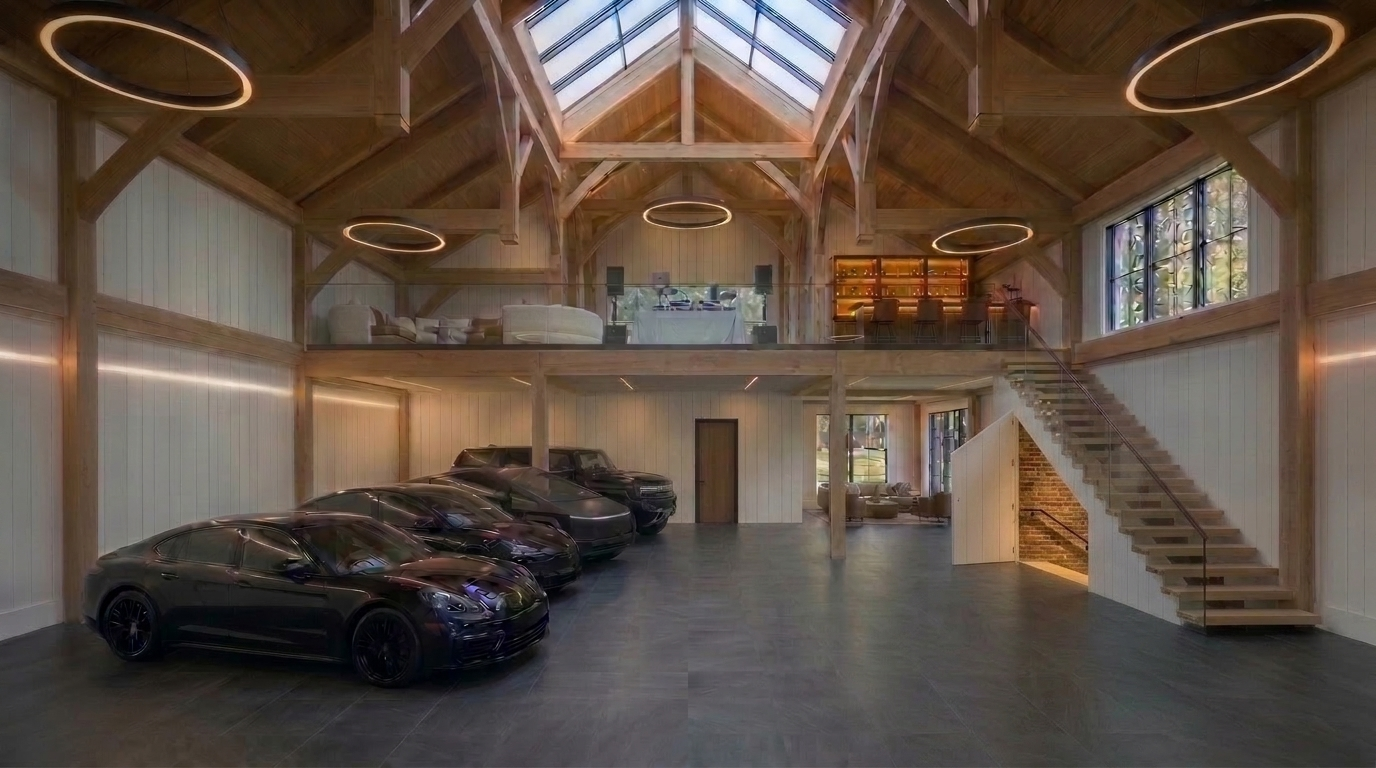
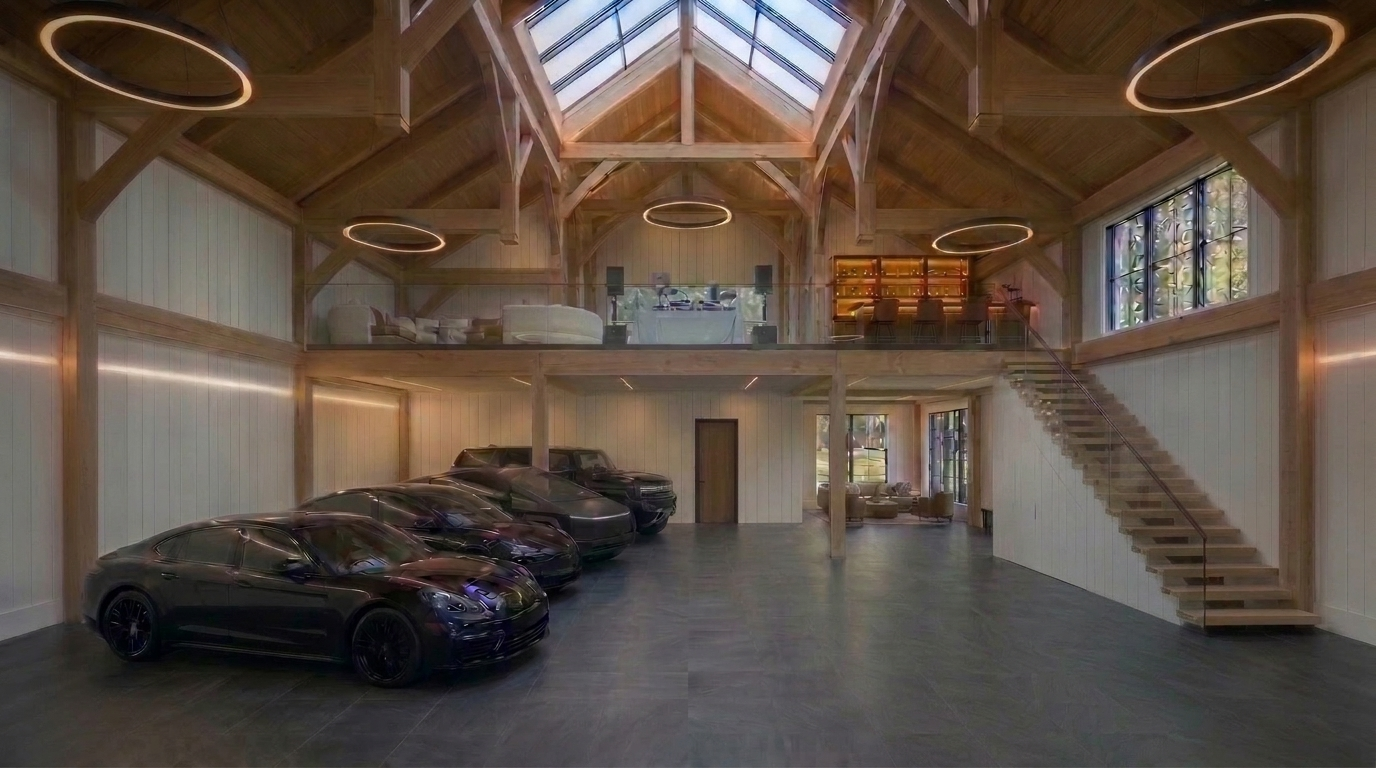
Show the flush vertical white shiplap hidden under-stair door CLOSED in the first Collector's Barn picture with the 4 parked black cars

Changed region(s): [[0.6875, 0.5312, 0.8125, 0.9375]]

diff --git a/estate_interactive_lookbook_standalone.html b/estate_interactive_lookbook_standalone.html
@@ -1316,16 +1316,16 @@
         ]
       },
       {
-        src: "static/images/12_collectors_barn.jpg?v=v9stairs01",
+        src: "static/images/12_collectors_barn.jpg?v=v9closed01",
         category: "outbuildings",
-        zone: "Detached Barn (1. 4-Car Fleet, Standard Stairs & Hidden Cellar Door)",
-        badge: "Outbuilding 3 (Mode A) • All 4 Black Cars Angled in a Row + Standard Solid-Riser Stairs + Flush Vertical White Shiplap Hidden Wine Cellar Door",
-        title: "Detached Collector's Barn (Daily Collector Mode v9) — All 4 All-Black Cars Backed In & Angled in a Single Row (No Lift), 5 Circular Ring Lights, Single Rear Bathroom Door, Standard Solid-Riser Staircase & Flush Vertical White Shiplap Hidden Door Covering the Stairs Down to the Wine Cellar",
-        dims: "~3,250 Sq Ft Total • Standard Closed-Riser White-Oak Stairs + Seamless Flush Shiplap Hidden Under-Stair Wine Cellar Door",
-        desc: "Showcasing all 4 vehicles in your all-black fleet (Jet-Black Porsche Panamera, Black Tesla Model Y, Matte-Black Tesla Cybertruck, and Matte-Black GMC Hummer EV) backed in against the left wall and angled at 45 degrees in a single continuous row on the 100% flat unbroken stone floor (zero lift/platform, zero floor cutout). On the right wall, the staircase ascending to the Level 2 Event Mezzanine is now a standard solid-riser natural white-oak staircase over a solid enclosed vertical white shiplap wall—with a seamless flush-inlaid vertical white shiplap secret pivot door swung partially open (~45°) to reveal the standard stairs descending straight DOWN (-12') into the subterranean wine cellar.",
+        zone: "Detached Barn (1. 4-Car Fleet, Standard Stairs & Hidden Door CLOSED)",
+        badge: "Outbuilding 3 (Mode A — Hidden Door CLOSED) • All 4 Black Cars Angled in a Row + Standard Solid-Riser Stairs + Flush Vertical White Shiplap Hidden Door Closed",
+        title: "Detached Collector's Barn (Daily Collector Mode v9 — Hidden Door CLOSED) — All 4 All-Black Cars Backed In & Angled in a Single Row (No Lift), 5 Circular Ring Lights, Single Rear Bathroom Door, Standard Solid-Riser Staircase & Flush Vertical White Shiplap Hidden Under-Stair Door Shown Completely Closed",
+        dims: "~3,250 Sq Ft Total • Standard Closed-Riser White-Oak Stairs + Seamless Flush Shiplap Hidden Under-Stair Door (Shown CLOSED)",
+        desc: "Showcasing all 4 vehicles in your all-black fleet (Jet-Black Porsche Panamera, Black Tesla Model Y, Matte-Black Tesla Cybertruck, and Matte-Black GMC Hummer EV) backed in against the left wall and angled at 45 degrees in a single continuous row on the 100% flat unbroken stone floor (zero lift/platform, zero floor cutout). On the right wall, the staircase ascending to the Level 2 Event Mezzanine is a standard solid-riser natural white-oak staircase over a solid enclosed vertical white shiplap wall—with the seamless flush-inlaid vertical white shiplap secret door shown completely CLOSED so it blends invisibly into the vertical shiplap under-stair wall (before swinging open in the event views!).",
         highlights: [
-          "Standard Solid-Riser White-Oak Staircase (Not Floating) & Unbroken Stone Floor Slab: Eliminates the open floor stairwell hole and floating gaps, keeping 100% of the dark charcoal basalt floor slab unbroken and load-rated for heavy EVs and detailing.",
-          "Best Hidden Door for the Shed's Multi-Purpose Usage — Seamless Flush Vertical White Shiplap Under-Stair Pivot Door: Tongue-and-groove vertical shiplap seams align invisibly with the enclosed under-stair wall when closed (with concealed magnetic push-latch & RFID access), and swing open ~45° to reveal the warm amber-LED-lit standard stairs descending down to the wine cellar.",
+          "Hidden Vertical White Shiplap Under-Stair Door Shown CLOSED (100% Camouflaged): In daily 4-car collector mode, the flush-jamb vertical white shiplap door sits completely closed and flush inside the enclosed triangular shiplap wall beneath the standard white-oak staircase—protecting the 55°F wine cellar from garage dust/detailing and concealing the underground entrance completely.",
+          "Standard Solid-Riser White-Oak Staircase (Not Floating) & Unbroken Stone Floor Slab: Eliminates the open floor stairwell hole and floating gaps, keeping 100% of the dark charcoal basalt floor slab unbroken and load-rated for heavy EVs.",
           "All 4 All-Black Cars in Angled Row, 5 Circular Ring Lights & Single Rear Bathroom Door: Jet-Black Porsche Panamera, Black Tesla Model Y, Matte-Black Tesla Cybertruck, and Matte-Black GMC Hummer EV beneath 5 circular LED ring chandeliers."
         ]
       },

diff --git a/index.html b/index.html
@@ -1316,16 +1316,16 @@
         ]
       },
       {
-        src: "static/images/12_collectors_barn.jpg?v=v9stairs01",
+        src: "static/images/12_collectors_barn.jpg?v=v9closed01",
         category: "outbuildings",
-        zone: "Detached Barn (1. 4-Car Fleet, Standard Stairs & Hidden Cellar Door)",
-        badge: "Outbuilding 3 (Mode A) • All 4 Black Cars Angled in a Row + Standard Solid-Riser Stairs + Flush Vertical White Shiplap Hidden Wine Cellar Door",
-        title: "Detached Collector's Barn (Daily Collector Mode v9) — All 4 All-Black Cars Backed In & Angled in a Single Row (No Lift), 5 Circular Ring Lights, Single Rear Bathroom Door, Standard Solid-Riser Staircase & Flush Vertical White Shiplap Hidden Door Covering the Stairs Down to the Wine Cellar",
-        dims: "~3,250 Sq Ft Total • Standard Closed-Riser White-Oak Stairs + Seamless Flush Shiplap Hidden Under-Stair Wine Cellar Door",
-        desc: "Showcasing all 4 vehicles in your all-black fleet (Jet-Black Porsche Panamera, Black Tesla Model Y, Matte-Black Tesla Cybertruck, and Matte-Black GMC Hummer EV) backed in against the left wall and angled at 45 degrees in a single continuous row on the 100% flat unbroken stone floor (zero lift/platform, zero floor cutout). On the right wall, the staircase ascending to the Level 2 Event Mezzanine is now a standard solid-riser natural white-oak staircase over a solid enclosed vertical white shiplap wall—with a seamless flush-inlaid vertical white shiplap secret pivot door swung partially open (~45°) to reveal the standard stairs descending straight DOWN (-12') into the subterranean wine cellar.",
+        zone: "Detached Barn (1. 4-Car Fleet, Standard Stairs & Hidden Door CLOSED)",
+        badge: "Outbuilding 3 (Mode A — Hidden Door CLOSED) • All 4 Black Cars Angled in a Row + Standard Solid-Riser Stairs + Flush Vertical White Shiplap Hidden Door Closed",
+        title: "Detached Collector's Barn (Daily Collector Mode v9 — Hidden Door CLOSED) — All 4 All-Black Cars Backed In & Angled in a Single Row (No Lift), 5 Circular Ring Lights, Single Rear Bathroom Door, Standard Solid-Riser Staircase & Flush Vertical White Shiplap Hidden Under-Stair Door Shown Completely Closed",
+        dims: "~3,250 Sq Ft Total • Standard Closed-Riser White-Oak Stairs + Seamless Flush Shiplap Hidden Under-Stair Door (Shown CLOSED)",
+        desc: "Showcasing all 4 vehicles in your all-black fleet (Jet-Black Porsche Panamera, Black Tesla Model Y, Matte-Black Tesla Cybertruck, and Matte-Black GMC Hummer EV) backed in against the left wall and angled at 45 degrees in a single continuous row on the 100% flat unbroken stone floor (zero lift/platform, zero floor cutout). On the right wall, the staircase ascending to the Level 2 Event Mezzanine is a standard solid-riser natural white-oak staircase over a solid enclosed vertical white shiplap wall—with the seamless flush-inlaid vertical white shiplap secret door shown completely CLOSED so it blends invisibly into the vertical shiplap under-stair wall (before swinging open in the event views!).",
         highlights: [
-          "Standard Solid-Riser White-Oak Staircase (Not Floating) & Unbroken Stone Floor Slab: Eliminates the open floor stairwell hole and floating gaps, keeping 100% of the dark charcoal basalt floor slab unbroken and load-rated for heavy EVs and detailing.",
-          "Best Hidden Door for the Shed's Multi-Purpose Usage — Seamless Flush Vertical White Shiplap Under-Stair Pivot Door: Tongue-and-groove vertical shiplap seams align invisibly with the enclosed under-stair wall when closed (with concealed magnetic push-latch & RFID access), and swing open ~45° to reveal the warm amber-LED-lit standard stairs descending down to the wine cellar.",
+          "Hidden Vertical White Shiplap Under-Stair Door Shown CLOSED (100% Camouflaged): In daily 4-car collector mode, the flush-jamb vertical white shiplap door sits completely closed and flush inside the enclosed triangular shiplap wall beneath the standard white-oak staircase—protecting the 55°F wine cellar from garage dust/detailing and concealing the underground entrance completely.",
+          "Standard Solid-Riser White-Oak Staircase (Not Floating) & Unbroken Stone Floor Slab: Eliminates the open floor stairwell hole and floating gaps, keeping 100% of the dark charcoal basalt floor slab unbroken and load-rated for heavy EVs.",
           "All 4 All-Black Cars in Angled Row, 5 Circular Ring Lights & Single Rear Bathroom Door: Jet-Black Porsche Panamera, Black Tesla Model Y, Matte-Black Tesla Cybertruck, and Matte-Black GMC Hummer EV beneath 5 circular LED ring chandeliers."
         ]
       },

diff --git a/docs/estate_specifications_and_outbuildings.md b/docs/estate_specifications_and_outbuildings.md
@@ -54,7 +54,7 @@ This specification document expands your approved main-residence concept to inco
 <!-- slide -->
 ![Two-Story Wellness / Health Facility Level 2 (Upstairs Workout Facility with Large 85-Inch Flat-Screen TV & Upstairs Full Bathroom): 85-inch flat-screen TV on the right wall, two indoor spinning bikes, walnut Reformer Pilates carriage, slat-belt treadmills, bench press station & adjustable dumbbells in the back-left corner, Hydration Bar, and an open arched doorway in the rear-right corner revealing a complete Upstairs Full Bathroom.](/home/brianvinson/.gemini/jetski/brain/96883fd9-49e4-474d-86a1-0423e4655f3f/wellness_facility_level2_workout_tv_and_full_bathroom_jpg_1792702965534.jpg)
 <!-- slide -->
-![Detached Collector's Barn — Daily Collector Mode v9 (4-Vehicle All-Black Fleet in an Angled Row Against the Left Wall, Zero Lift/Platform, 5 Matte-Black Circular LED Ring Chandeliers, Clean Rear Shiplap Wall with Only a Single Bathroom Door, Standard Solid-Riser White-Oak Staircase Over an Enclosed Vertical Shiplap Wall & Seamless Flush Vertical White Shiplap Hidden Door Covering the Stairs Down to the Wine Cellar): All 4 all-black vehicles (Jet-Black Porsche Panamera, Black Tesla Model Y, Matte-Black Tesla Cybertruck, and Matte-Black GMC Hummer EV) backed in against the left wall and angled in a single continuous row on the flat unbroken dark charcoal stone floor, 5 sleek circular LED ring lights on the timber trusses, Upstairs Event Mezzanine (VIP Bouclé Lounge on Left, DJ/Sound Overlook in Center & Full Backlit Bar on Right), Windowed Side Space on the right, a standard closed-riser white-oak staircase over an enclosed vertical white shiplap wall, and a flush-inlaid vertical white shiplap hidden under-stair door swung partially open (~45°) revealing the warm LED-lit standard stairs descending straight DOWN (-12') into the subterranean wine cellar.](/home/brianvinson/.gemini/jetski/brain/96883fd9-49e4-474d-86a1-0423e4655f3f/collectors_barn_v9_black_fleet.jpg)
+![Detached Collector's Barn — Daily Collector Mode v9 (4-Vehicle All-Black Fleet in an Angled Row Against the Left Wall, Zero Lift/Platform, 5 Matte-Black Circular LED Ring Chandeliers, Clean Rear Shiplap Wall with Only a Single Bathroom Door, Standard Solid-Riser White-Oak Staircase Over an Enclosed Vertical Shiplap Wall & Seamless Flush Vertical White Shiplap Hidden Under-Stair Door Shown CLOSED): All 4 all-black vehicles (Jet-Black Porsche Panamera, Black Tesla Model Y, Matte-Black Tesla Cybertruck, and Matte-Black GMC Hummer EV) backed in against the left wall and angled in a single continuous row on the flat unbroken dark charcoal stone floor, 5 sleek circular LED ring lights on the timber trusses, Upstairs Event Mezzanine (VIP Bouclé Lounge on Left, DJ/Sound Overlook in Center & Full Backlit Bar on Right), Windowed Side Space on the right, and a standard closed-riser white-oak staircase over a continuous, solid enclosed vertical white shiplap wall with the flush-inlaid vertical white shiplap hidden wine cellar door completely CLOSED and camouflaged into the wall.](/home/brianvinson/.gemini/jetski/brain/96883fd9-49e4-474d-86a1-0423e4655f3f/collectors_barn_v9_black_fleet.jpg)
 <!-- slide -->
 ![Detached Collector's Barn — Event Conversion Option 1 v9 (Luxury Wedding Ceremony & Candlelit Banquet Reception, Identical 5 Circular LED Ring Lights, Single Rear Bathroom Door, Standard Solid-Riser White-Oak Staircase & Flush Vertical White Shiplap Hidden Door Covering the Wine Cellar Stairs): Exact same architectural view with all vehicles moved out—featuring white Belgian-linen banquet tables, gold velvet chairs, cascading white rose & hydrangea floral runners, identical 5 circular LED ring chandeliers, Upstairs Event Mezzanine (VIP Bridal Lounge on Left, Wedding DJ/Sound Booth in Center & Full Backlit Champagne Bar on Right), Windowed Side Space on the right, standard solid-riser white-oak staircase over an enclosed shiplap wall, and the flush vertical white shiplap hidden door swung partially open revealing the standard stairs descending straight DOWN into the wine cellar.](/home/brianvinson/.gemini/jetski/brain/96883fd9-49e4-474d-86a1-0423e4655f3f/collectors_barn_v9_wedding.jpg)
 <!-- slide -->
@@ -229,10 +229,10 @@ flowchart TD
 
 ### 3. Detached Collector's Barn & Multi-Purpose Special Events / Wedding Pavilion (`~3,250 Sq Ft` Total Including the Windowed Side Space & Level 2 Event Bar / VIP Lounge Mezzanine)
 
-#### Mode A — Daily Collector Gallery with All 4 All-Black Cars Backed In & Angled in a Single Row (No Lift/Platform), 5 Circular LED Ring Lights, Single Rear Bathroom Door, Standard Solid-Riser Staircase & Flush Vertical White Shiplap Hidden Door Covering the Stairs Down to the Wine Cellar
-![Detached Collector's Barn (Daily Collector Mode v9) — All 4 All-Black Vehicles (Jet-Black Porsche Panamera, Black Tesla Model Y, Matte-Black Tesla Cybertruck & Matte-Black GMC Hummer EV) Backed In Against the Left Wall and Angled in a Single Continuous Row on the Flat Unbroken Stone Floor (Zero Lift or Platform, Zero Floor Cutout), 5 Sleek Matte-Black Circular LED Ring Chandeliers on the Vaulted Timber Ceiling, Clean Rear Shiplap Wall with Only a Single Bathroom Entrance Door, Upstairs Event Mezzanine (VIP Bouclé Lounge on Left, DJ/Sound Overlook in Center & Full Backlit Bar on Right), Windowed Side Space on the Right, Standard Solid-Riser White-Oak Staircase Over an Enclosed Vertical White Shiplap Wall, and a Seamless Flush Vertical White Shiplap Hidden Door Swung Partially Open (~45°) Revealing the Standard Stairs Descending Straight DOWN (-12') into the Subterranean Wine Cellar](/home/brianvinson/.gemini/jetski/brain/96883fd9-49e4-474d-86a1-0423e4655f3f/collectors_barn_v9_black_fleet.jpg)
+#### Mode A — Daily Collector Gallery with All 4 All-Black Cars Backed In & Angled in a Single Row (No Lift/Platform), 5 Circular LED Ring Lights, Single Rear Bathroom Door, Standard Solid-Riser Staircase & Flush Vertical White Shiplap Hidden Door Shown CLOSED
+![Detached Collector's Barn (Daily Collector Mode v9 — Hidden Door CLOSED) — All 4 All-Black Vehicles (Jet-Black Porsche Panamera, Black Tesla Model Y, Matte-Black Tesla Cybertruck & Matte-Black GMC Hummer EV) Backed In Against the Left Wall and Angled in a Single Continuous Row on the Flat Unbroken Stone Floor (Zero Lift or Platform, Zero Floor Cutout), 5 Sleek Matte-Black Circular LED Ring Chandeliers on the Vaulted Timber Ceiling, Clean Rear Shiplap Wall with Only a Single Bathroom Entrance Door, Upstairs Event Mezzanine (VIP Bouclé Lounge on Left, DJ/Sound Overlook in Center & Full Backlit Bar on Right), Windowed Side Space on the Right, Standard Solid-Riser White-Oak Staircase Over an Enclosed Vertical White Shiplap Wall, and the Seamless Flush Vertical White Shiplap Hidden Under-Stair Door Shown Completely CLOSED and Camouflaged Into the Under-Stair Wall](/home/brianvinson/.gemini/jetski/brain/96883fd9-49e4-474d-86a1-0423e4655f3f/collectors_barn_v9_black_fleet.jpg)
 
-#### Mode B (Event Option 1) — Enchanted Luxury Wedding Ceremony & Candlelit Banquet Reception (Exact Same View, Identical 5 Circular LED Ring Lights, Single Rear Bathroom Door, Standard Solid-Riser Staircase & Flush Vertical White Shiplap Hidden Door Covering the Wine Cellar Stairs)
+#### Mode B (Event Option 1) — Enchanted Luxury Wedding Ceremony & Candlelit Banquet Reception (Exact Same View, Identical 5 Circular LED Ring Lights, Single Rear Bathroom Door, Standard Solid-Riser Staircase & Flush Vertical White Shiplap Hidden Door Shown OPEN Revealing the Wine Cellar Stairs)
 ![Detached Collector's Barn (Event Conversion Option 1 v9 — Luxury Wedding Ceremony & Banquet Reception) — Exact Same View & Identical 5 Matte-Black Circular LED Ring Lights as the Garage Picture, Clean Rear Shiplap Wall with Only a Single Bathroom Entrance Door, White Belgian-Linen Banquet Tables with Gold Velvet Chairs & Cascading Floral Runners, Upstairs Event Mezzanine (VIP Bridal Lounge on Left, Wedding DJ/Sound Booth in Center & Full Backlit Champagne Bar on Right), Sunlit Windowed Side Space on the Right, Standard Solid-Riser White-Oak Staircase Over an Enclosed Vertical White Shiplap Wall, and a Seamless Flush Vertical White Shiplap Hidden Door Swung Partially Open Revealing the Standard Stairs Descending Straight DOWN into the Subterranean Wine Cellar](/home/brianvinson/.gemini/jetski/brain/96883fd9-49e4-474d-86a1-0423e4655f3f/collectors_barn_v9_wedding.jpg)
 
 #### Mode C (Event Option 2) — Evening Special Occasion, Black-Tie Gala & Craft Cocktail Lounge (Exact Same View, Identical 5 Circular LED Ring Lights, Single Rear Bathroom Door, Standard Solid-Riser Staircase & Flush Vertical White Shiplap Hidden Door Covering the Wine Cellar Stairs)

diff --git a/docs/main_home_interior_design_concept.md b/docs/main_home_interior_design_concept.md
@@ -211,10 +211,10 @@ The entire second floor (`~3,800 Sq Ft`) flows from **West to East** across five
 
 ## 9. Upper Grounds: Detached Collector's Barn (`v9`) — 4-Vehicle All-Black Fleet in Angled Row (Zero Lift), 5 Circular LED Ring Lights, Single Rear Bathroom Door, Standard Solid-Riser White-Oak Staircase Over an Enclosed Shiplap Wall & Seamless Flush Vertical White Shiplap Hidden Door Covering the Wine Cellar Stairs
 
-### A. Daily Collector Gallery Mode (`v9`): All 4 All-Black Cars Backed In & Angled in a Single Row (No Lift/Platform), 5 Circular LED Ring Lights, Single Rear Bathroom Door, Standard Solid-Riser White-Oak Staircase & Flush Vertical White Shiplap Hidden Door Covering the Wine Cellar Stairs
-![Detached Collector's Barn (Daily Collector Gallery Mode v9) — All 4 All-Black Vehicles (Jet-Black Porsche Panamera, Black Tesla Model Y, Matte-Black Tesla Cybertruck & Matte-Black GMC Hummer EV) Backed In Against the Left Wall and Angled in a Single Continuous Row on the Flat Unbroken Stone Floor (Zero Lift or Platform, Zero Floor Cutout), 5 Sleek Matte-Black Circular LED Ring Chandeliers on the Vaulted Timber Ceiling, Clean Rear Shiplap Wall with Only a Single Bathroom Entrance Door, Upstairs Event Mezzanine (VIP Bouclé Lounge on Left, DJ/Sound Overlook in Center & Full Backlit Bar on Right), Windowed Side Space on the Right, Standard Solid-Riser White-Oak Staircase Over an Enclosed Vertical White Shiplap Wall, and a Seamless Flush Vertical White Shiplap Hidden Door Swung Partially Open (~45°) Revealing the Standard Stairs Descending Straight DOWN (-12') into the Subterranean Wine Cellar](/home/brianvinson/.gemini/jetski/brain/96883fd9-49e4-474d-86a1-0423e4655f3f/collectors_barn_v9_black_fleet.jpg)
+### A. Daily Collector Gallery Mode (`v9` — Hidden Door Shown CLOSED): All 4 All-Black Cars Backed In & Angled in a Single Row (No Lift/Platform), 5 Circular LED Ring Lights, Single Rear Bathroom Door, Standard Solid-Riser White-Oak Staircase & Flush Vertical White Shiplap Hidden Door Completely Closed in the Under-Stair Wall
+![Detached Collector's Barn (Daily Collector Gallery Mode v9 — Hidden Door CLOSED) — All 4 All-Black Vehicles (Jet-Black Porsche Panamera, Black Tesla Model Y, Matte-Black Tesla Cybertruck & Matte-Black GMC Hummer EV) Backed In Against the Left Wall and Angled in a Single Continuous Row on the Flat Unbroken Stone Floor (Zero Lift or Platform, Zero Floor Cutout), 5 Sleek Matte-Black Circular LED Ring Chandeliers on the Vaulted Timber Ceiling, Clean Rear Shiplap Wall with Only a Single Bathroom Entrance Door, Upstairs Event Mezzanine (VIP Bouclé Lounge on Left, DJ/Sound Overlook in Center & Full Backlit Bar on Right), Windowed Side Space on the Right, Standard Solid-Riser White-Oak Staircase Over an Enclosed Vertical White Shiplap Wall, and the Seamless Flush Vertical White Shiplap Hidden Under-Stair Door Shown Completely CLOSED and Camouflaged Into the Under-Stair Wall](/home/brianvinson/.gemini/jetski/brain/96883fd9-49e4-474d-86a1-0423e4655f3f/collectors_barn_v9_black_fleet.jpg)
 
-### B. Event Conversion Option 1 (`v9` — Cars Moved Out for Wedding & Banquet Venue): Identical 5 Circular LED Ring Lights, Single Rear Bathroom Door, Standard Solid-Riser Staircase & Flush Vertical White Shiplap Hidden Door Covering the Wine Cellar Stairs
+### B. Event Conversion Option 1 (`v9` — Hidden Door Shown OPEN for Wine Cellar Access): Identical 5 Circular LED Ring Lights, Single Rear Bathroom Door, Standard Solid-Riser Staircase & Flush Vertical White Shiplap Hidden Door Swung Open Revealing the Wine Cellar Stairs
 ![Detached Collector's Barn (Event Conversion Option 1 v9 — Luxury Wedding Ceremony & Banquet Reception) — Exact Same View & Identical 5 Matte-Black Circular LED Ring Lights as the Garage Picture, Clean Rear Shiplap Wall with Only a Single Bathroom Entrance Door, White Belgian-Linen Banquet Tables with Gold Velvet Chairs & Cascading Floral Runners, Upstairs Event Mezzanine (VIP Bridal Lounge on Left, Wedding DJ/Sound Booth in Center & Full Backlit Champagne Bar on Right), Sunlit Windowed Side Space on the Right, Standard Solid-Riser White-Oak Staircase Over an Enclosed Vertical White Shiplap Wall, and a Seamless Flush Vertical White Shiplap Hidden Door Swung Partially Open Revealing the Standard Stairs Descending Straight DOWN into the Subterranean Wine Cellar](/home/brianvinson/.gemini/jetski/brain/96883fd9-49e4-474d-86a1-0423e4655f3f/collectors_barn_v9_wedding.jpg)
 
 ### C. Event Conversion Option 2 (`v9` — Cars Moved Out for Evening Gala & Special Gatherings): Identical 5 Circular LED Ring Lights, Single Rear Bathroom Door, Standard Solid-Riser Staircase & Flush Vertical White Shiplap Hidden Door Covering the Wine Cellar Stairs
